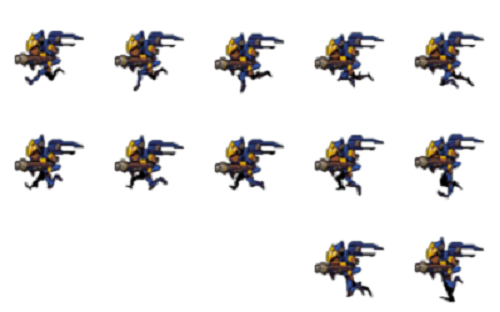
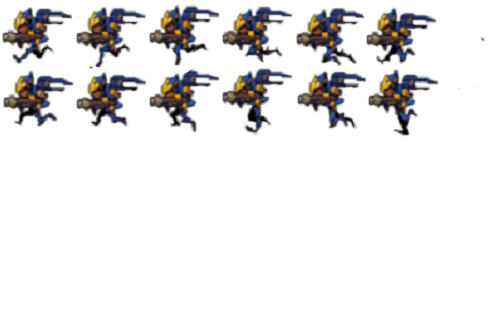
ไฟลุก

diff --git a/core/src/main/java/Rungunguns/MonsterBox/Lucio.java b/core/src/main/java/Rungunguns/MonsterBox/Lucio.java
@@ -1,0 +1,37 @@
+package Rungunguns.MonsterBox;
+
+import Rungunguns.Monster;
+import com.badlogic.gdx.graphics.Texture;
+import org.mini2Dx.core.graphics.Animation;
+import org.mini2Dx.core.graphics.SpriteSheet;
+
+public class Lucio extends Monster {
+
+
+    public Lucio(){
+        nyouronTexture = new Texture("Monsters/Lucio/Webp.net-resizeimage.png");
+        NYOURON_SPEED = 8f;
+        hitpoint = 0;
+        monsterSpriteSheet = new SpriteSheet(nyouronTexture,60,70);
+        monstersAnimation = new Animation();
+
+                monstersAnimation.addFrame(monsterSpriteSheet.getSprite(0), frameDuration);
+                monstersAnimation.addFrame(monsterSpriteSheet.getSprite(1), frameDuration);
+                monstersAnimation.addFrame(monsterSpriteSheet.getSprite(2), frameDuration);
+                monstersAnimation.addFrame(monsterSpriteSheet.getSprite(3), frameDuration);
+                monstersAnimation.addFrame(monsterSpriteSheet.getSprite(4), frameDuration);
+                monstersAnimation.addFrame(monsterSpriteSheet.getSprite(5), frameDuration);
+                monstersAnimation.addFrame(monsterSpriteSheet.getSprite(6), frameDuration);
+                monstersAnimation.addFrame(monsterSpriteSheet.getSprite(7), frameDuration);
+
+
+        //monstersAnimation.addFrame(monsterSpriteSheet.getSprite(7),0.2f);
+        monstersAnimation.setLooping(true);
+        nyouronHeight = monsterSpriteSheet.getSprite(0).getHeight();
+        nyouronWidth = monsterSpriteSheet.getSprite(0).getWidth();
+        nyouroncollisionBox = generateCollisionRectAt(point.x,point.y);
+        collisionRectHeight = nyouronHeight;
+        collisionRectWidth = nyouronWidth;
+    }
+
+}

diff --git a/core/src/main/java/Rungunguns/MonsterBox/Mercy.java b/core/src/main/java/Rungunguns/MonsterBox/Mercy.java
@@ -13,20 +13,18 @@ public class Mercy extends Monster {
 
 
     public Mercy(){
-        nyouronTexture= new Texture("Monsters/Pharah/PharahOG.png");
-        NYOURON_SPEED = 1.3f;
+        nyouronTexture = new Texture("Monsters/Mercy/Mercy.png");
+        NYOURON_SPEED = 1f;
         hitpoint = 1;
-        monsterSpriteSheet = new SpriteSheet(nyouronTexture,60,60);
-        monstersAnimation = new Animation(); //test commit 2
-        for (int i = 0;i < 15;i++) {
-            if (i < 10 || i > 12) {
+        monsterSpriteSheet = new SpriteSheet(nyouronTexture,86,64);
+        monstersAnimation = new Animation();
+        for (int i = 0;i < 6;i++) {
                 monstersAnimation.addFrame(monsterSpriteSheet.getSprite(i), frameDuration);
-            }
         }
-        monstersAnimation.addFrame(monsterSpriteSheet.getSprite(7),0.2f);
         monstersAnimation.setLooping(true);
-        nyouronHeight = monsterSpriteSheet.getSprite(0).getHeight();
-        nyouronWidth = monsterSpriteSheet.getSprite(0).getWidth();
+
+        nyouronHeight = monsterSpriteSheet.getSprite(0).getHeight()-20;
+        nyouronWidth = monsterSpriteSheet.getSprite(0).getWidth()-20;
         nyouroncollisionBox = generateCollisionRectAt(point.x,point.y);
         collisionRectHeight = nyouronHeight;
         collisionRectWidth = nyouronWidth;

diff --git a/core/src/main/java/Rungunguns/MonsterBox/Pharah.java b/core/src/main/java/Rungunguns/MonsterBox/Pharah.java
@@ -9,18 +9,17 @@ public class Pharah extends Monster {
 
 
     public Pharah(){
-        nyouronTexture= new Texture("Monsters/Pharah/PharahOG.png");
+        nyouronTexture = new Texture("Monsters/Pharah/Pharah4.png");
         NYOURON_SPEED = 3f;
         hitpoint = 1;
-        spawnrate = 5;
-        monsterSpriteSheet = new SpriteSheet(nyouronTexture,52,70);
-        monstersAnimation = new Animation(); //test commit 2
-        for (int i = 0;i < 15;i++) {
-            if (i < 10 || i > 12) {
-                monstersAnimation.addFrame(monsterSpriteSheet.getSprite(i), frameDuration);
-            }
-        }
-        //monstersAnimation.addFrame(monsterSpriteSheet.getSprite(7),0.2f);
+        spawnrate = 1; //defult 5
+        monsterSpriteSheet = new SpriteSheet(nyouronTexture,73,70);
+        monstersAnimation = new Animation();
+
+        for(int i = 0;i < 12;i++ )
+        monstersAnimation.addFrame(monsterSpriteSheet.getSprite(i), frameDuration/1.5f);
+
+
         monstersAnimation.setLooping(true);
         nyouronHeight = monsterSpriteSheet.getSprite(0).getHeight();
         nyouronWidth = monsterSpriteSheet.getSprite(0).getWidth();

diff --git a/core/src/main/java/Rungunguns/Maingame.java b/core/src/main/java/Rungunguns/Maingame.java
@@ -2,7 +2,7 @@ package Rungunguns;
 
 import Rungunguns.MonsterBox.Mercy;
 import Rungunguns.MonsterBox.Pharah;
-import Rungunguns.MonsterBox.Rienheart;
+import Rungunguns.MonsterBox.Lucio;
 import Rungunguns.TextureBox.BackgroundTexture;
 import Rungunguns.TextureBox.PlayerTexture;
 import Rungunguns.TextureBox.TopBottomEdgeTexture;
@@ -135,7 +135,7 @@ public class Maingame extends BasicGame {
             }*/
             Pharah mon2 = new Pharah();
             Mercy mon3= new Mercy();
-            Rienheart mon1 = new Rienheart();
+            Lucio mon1 = new Lucio();
             spawnmonster(mon1,5);
             spawnmonster(mon2,spawnrate);
             spawnmonster(mon3,randomFloatMinMax(spawnrate-50,spawnrate));

diff --git a/core/src/main/java/Rungunguns/MonsterBox/NyouronA.java b/core/src/main/java/Rungunguns/MonsterBox/NyouronA.java
@@ -1,16 +1,13 @@
 package Rungunguns.MonsterBox;
 
 import Rungunguns.Monster;
-import com.badlogic.gdx.Gdx;
 import com.badlogic.gdx.graphics.Texture;
-import org.mini2Dx.core.engine.geom.CollisionBox;
-import org.mini2Dx.core.graphics.Graphics;
 
 public class NyouronA extends Monster {
 
 
     public NyouronA(){
-        nyouronTexture= new Texture("Nyouron.png");
+        nyouronTexture = new Texture("Nyouron.png");
         nyouronHeight = nyouronTexture.getHeight();
         nyouronWidth = nyouronTexture.getWidth();
         nyouroncollisionBox = generateCollisionRectAt(nyouronX,nyouronY);
